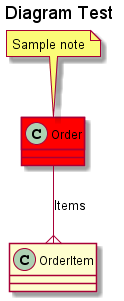
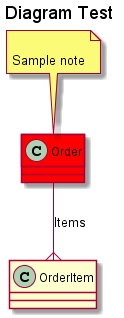
create note with background

diff --git a/app/Tests/DiagramTests.cs b/app/Tests/DiagramTests.cs
@@ -4,7 +4,7 @@ using Xunit;
 
 namespace Tests
 {
-    public class DiagramTests:TestsBase
+    public class DiagramTests : TestsBase
     {
         [Fact]
         public void T01_Should_create_simple_diagram()
@@ -21,7 +21,7 @@ namespace Tests
             Assert.NotNull(file);
             var code = file.Code;
             Save(code);
-            
+
             var expected = @"@startuml
 title
  Diagram Test
@@ -37,10 +37,10 @@ class OrderItem
 Order --{ OrderItem:Items
 @enduml
 ";
-            Assert.Equal(expected, code);            
+            Assert.Equal(expected, code);
         }
-        
-        
+
+
         [Fact]
         public void T02_Should_create_simple_diagram_with_entity_note()
         {
@@ -69,6 +69,7 @@ class Order #ff0000
 {
 }
 note top of Order
+
 Sample note
 end note
 class OrderItem
@@ -78,10 +79,9 @@ class OrderItem
 Order --{ OrderItem:Items
 @enduml
 ";
-            Assert.Equal(expected, code);            
+            Assert.Equal(expected, code);
         }
-        
-        
+
         [Fact]
         public void T03_Should_create_simple_diagram_with_auto_entity_note()
         {
@@ -106,19 +106,62 @@ class Order2
 {
 }
 note right of Order2
+
 Note from annotation
 end note
 class OrderItem2
 {
 }
 note left of OrderItem2
+
 Note from UmlNote
 end note
 
 Order2 --{ OrderItem2:Items
 @enduml
 ";
-            Assert.Equal(expected, code);            
+            Assert.Equal(expected, code);
+        }
+
+        [Fact]
+        public void T04_Should_create_simple_diagram_with_entity_note_with_background()
+        {
+            var b = new ReflectionProjectBuilder(true)
+                .WithAssembly(typeof(DiagramTests).Assembly)
+                .Build();
+            Assert.NotNull(b);
+            Assert.True(b.Diagrams.ContainsKey("Test"));
+            var diag = b.Diagrams["Test"];
+            Assert.NotNull(diag);
+
+            var ent = diag.GetEntityByType(typeof(Order));
+            ent.AddNote(NoteLocation.Top, "Sample note", UmlColor.IndianRed.ToFill());
+
+            var file = diag.CreateFile();
+            Assert.NotNull(file);
+            var code = file.Code;
+            Save(code);
+            // 1074296
+            var expected = @"@startuml
+title
+ Diagram Test
+end title
+
+class Order #ff0000
+{
+}
+note top of Order #indianred
+
+Sample note
+end note
+class OrderItem
+{
+}
+
+Order --{ OrderItem:Items
+@enduml
+";
+            Assert.Equal(expected, code);
         }
     }
 
@@ -133,8 +176,8 @@ Order2 --{ OrderItem2:Items
     public class OrderItem
     {
     }
-    
-    
+
+
     [UmlDiagram("Test2", Note = "Note from annotation", NoteLocation = NoteLocation.Right)]
     public class Order2
     {

diff --git a/app/AutoUml/_project/UmlEntity.cs b/app/AutoUml/_project/UmlEntity.cs
@@ -20,14 +20,23 @@ namespace AutoUml
                 IsAbstract = true;
         }
 
-        public void AddNote(NoteLocation location, string note)
+        public void AddNote(INoteProvider np)
+        {
+            if (np == null)
+                return;
+            AddNote(np.GetNoteLocation(), np.GetNoteText(), np.GetNoteBackground());
+        }
+
+        public void AddNote(NoteLocation location, string note, IUmlFill background=null)
         {
             note = note?.Trim();
             if (string.IsNullOrEmpty(note))
                 return;
-            if (_notes.TryGetValue(location, out var currentText))
-                note = currentText + "\n" + note;
-            _notes[location] = note;
+            if (!_notes.TryGetValue(location, out var x))
+                _notes[location] = x = new UmlNote();
+            if (background != null)
+                x.Background = background;
+            x.Text += "\n" + note;
         }
 
         public string GetOpenClassCode()
@@ -60,12 +69,18 @@ namespace AutoUml
         public bool            IsAbstract { get; set; }
         public List<UmlMember> Members    { get; set; } = new List<UmlMember>();
 
-        public IReadOnlyDictionary<NoteLocation, string> Notes
+        public IReadOnlyDictionary<NoteLocation, UmlNote> Notes
         {
             get { return _notes; }
         }
 
-        private readonly Dictionary<NoteLocation, string> _notes = new Dictionary<NoteLocation, string>();
+        private readonly Dictionary<NoteLocation, UmlNote> _notes = new Dictionary<NoteLocation, UmlNote>();
+    }
+
+    public class UmlNote
+    {
+        public IUmlFill Background { get; set; }
+        public string   Text       { get; set; }
     }
 
     public enum UmlTypes

diff --git a/app/AutoUml/_project/UmlProjectDiagram.cs b/app/AutoUml/_project/UmlProjectDiagram.cs
@@ -118,8 +118,11 @@ namespace AutoUml
             cf.Close();
             foreach (var i in info.Notes.OrderBy(a=>a.Key))
             {
-                cf.Writeln($"note {i.Key.ToString().ToLower()} of {info.Name.AddQuotesIfNecessary()}");
-                foreach (var j in i.Value.Split('\n'))
+                var bg = i.Value.Background?.GetCode();
+                if (!string.IsNullOrEmpty(bg))
+                    bg = " " + bg;
+                cf.Writeln($"note {i.Key.ToString().ToLower()} of {info.Name.AddQuotesIfNecessary()}{bg}");
+                foreach (var j in i.Value.Text.Split('\n'))
                     cf.Writeln(j);
                 cf.Writeln("end note");
             }            

diff --git a/app/AutoUml/_visitors/UmlDiagramAttributeVisitor.cs b/app/AutoUml/_visitors/UmlDiagramAttributeVisitor.cs
@@ -17,10 +17,7 @@ namespace AutoUml
                     (info, created) =>
                     {
                         info.Background = (att as IEntityBackgroundProvider).GetEntityBackground();
-                        if (!string.IsNullOrEmpty(att.Note))
-                        {
-                            info.AddNote(att.NoteLocation, att.Note);
-                        }
+                        info.AddNote(att);
                     });
             }
         }

diff --git a/app/AutoUml/_attributes/UmlDiagramAttribute.cs b/app/AutoUml/_attributes/UmlDiagramAttribute.cs
@@ -20,7 +20,7 @@ namespace AutoUml
             return UmlColor.FromString(NoteBackground).ToFill();
         }
 
-        NoteLocation? INoteProvider.GetNoteLocation()
+        NoteLocation INoteProvider.GetNoteLocation()
         {
             return NoteLocation;
         }

diff --git a/app/AutoUml/_attributes/UmlNoteAttribute.cs b/app/AutoUml/_attributes/UmlNoteAttribute.cs
@@ -15,7 +15,7 @@ namespace AutoUml
             return UmlColor.FromString(NoteBackground).ToFill();
         }
 
-        NoteLocation? INoteProvider.GetNoteLocation()
+        NoteLocation INoteProvider.GetNoteLocation()
         {
             return NoteLocation;
         }

diff --git a/app/AutoUml/_attributes/UmlRelationAttribute.cs b/app/AutoUml/_attributes/UmlRelationAttribute.cs
@@ -17,7 +17,7 @@ namespace AutoUml
             return UmlColor.FromString(NoteBackground).ToFill();
         }
 
-        NoteLocation? INoteProvider.GetNoteLocation()
+        NoteLocation INoteProvider.GetNoteLocation()
         {
             return NoteLocation;
         }

diff --git a/app/AutoUml/_visitors/UmlNoteAttributeVisitor.cs b/app/AutoUml/_visitors/UmlNoteAttributeVisitor.cs
@@ -8,7 +8,7 @@ namespace AutoUml
         {
             var t = info.Type;
             foreach (var i in t.GetCustomAttributes<UmlNoteAttribute>())
-                info.AddNote(i.NoteLocation, i.Note);
+                info.AddNote(i);
         }
     }
 }

diff --git a/app/AutoUml/_interfaces/IEntityBackgroundProvider.cs b/app/AutoUml/_interfaces/IEntityBackgroundProvider.cs
@@ -14,7 +14,7 @@ namespace AutoUml
     public interface INoteProvider
     {
         string GetNoteText();
-        NoteLocation? GetNoteLocation();
+        NoteLocation GetNoteLocation();
         IUmlFill GetNoteBackground();
     }
 }
